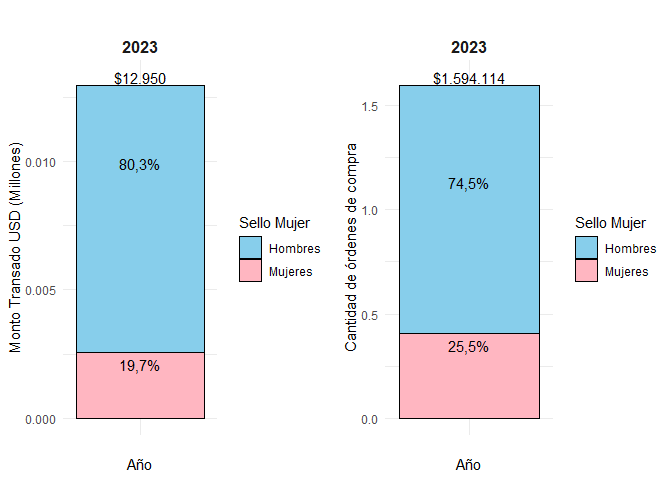
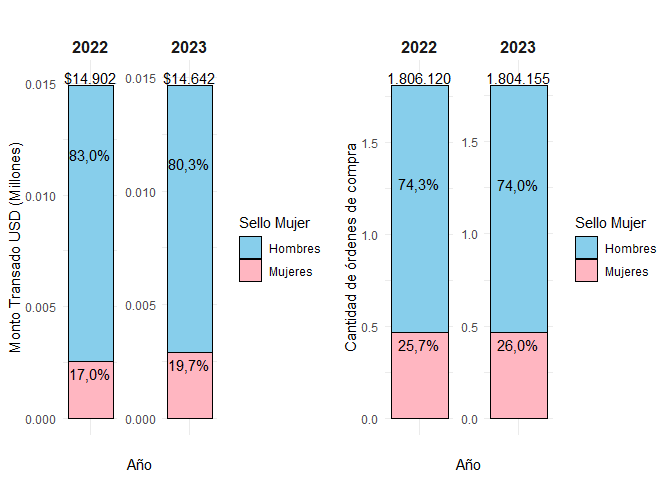
Update del cuaderno de investigación

diff --git a/README.md b/README.md
@@ -2,9 +2,7 @@ Cuaderno de investigación: Índice de Participación con Perspectiva de
 Género
 ================
 
-## Cuaderno de investigación:
-
-Un cuaderno de investigación, también conocido como cuaderno de
+Un **cuaderno de investigación**, también conocido como cuaderno de
 laboratorio o cuaderno de campo, es un documento utilizado por
 investigadores para registrar de manera sistemática y detallada todas
 las etapas y aspectos de un proyecto de investigación. Este cuaderno
@@ -13,6 +11,11 @@ resultados, análisis y cualquier otro dato relevante asociado con la
 investigación.
 
 ## ChileCompra
+
+<span style="color: red;"> Estos bullets se usaron para la presentación
+realizada con funcionarias del ministerio de hacienda, por tanto, se
+consideró necesario hacer un recordatorio del quehacer del servicio, sin
+embargo, para uso interno es prescindible </span>
 
 - La Dirección de Compras y Contratación Pública, Dirección ChileCompra
   es una entidad clave para más de 1.000 organismos públicos en Chile,
@@ -52,101 +55,25 @@ roles de género para promover una sociedad más equitativa.
 
 ## Contexto: Empresas lideradas por mujeres según Monto transado y órdenes de compra
 
-``` r
-# q_1 = readr::read_rds(file = "q1_monto_cantidad_oc_segun_sello_2018_2020.rds") %>% 
-#   mutate(`Sello Mujer` = ifelse(is.na(`Sello Mujer`), "Hombres", "Mujeres")) %>%
-#   rename(Anio = Año) %>%
-#   group_by(Anio, `Sello Mujer`) %>%
-#   mutate(
-#     total_monto = sum(`Monto anual USD`),
-#     total_cantidad = sum(`Cantidad OC`),
-#     perc_monto = `Monto anual USD` / total_monto,
-#     perc_cantidad = `Cantidad OC` / total_cantidad
-#   ) 
+![](README_files/figure-gfm/primer-1.png)<!-- --> Este gráfico muestra
+que aunque no hay variaciones importantes entre ambos períodos entre
+cantidad de órdenes de compra y montos transados, sí se puede apreciar
+una leve mejora en términos de participación en los montos pasando de un
+17% en 2022 para las mujeres a un 19,7%, sobre todo si se tiene en
+cuenta que a pesar de que el año 2023 no ha concluido, se aprecia un
+total transado muy similar al año anterior.
 
+## Monto y cantidad de órdenes de compra según procedimiento de compra
 
-# Define los colores para "Hombres" y "Mujeres"
-colores <- c("Hombres" = "#87CEEB",  # Celeste pastel para Hombres
-             "Mujeres" = "#FFB6C1")  # Rosado pastel para Mujeres
+![](README_files/figure-gfm/unnamed-chunk-2-1.png)<!-- -->
 
-
-
-file = "q1_monto_cantidad_oc_segun_sello_2018_2020.rds"
-
-q_1 = readr::read_rds(file)
-
-grafico_barras <- function(data, y, z, fill,  colores,...){
-  options(scipen = 999)
-  # Calcula el total por género
-  # 
-  data_ <-  data %>% 
-  group_by({{z}}) %>%
-  mutate(total_ = sum({{y}})) %>% 
-    ungroup() %>% 
-    mutate(perc_ = {{y}} /total_)
-    
-    
-  totales_por_genero <- data %>%
-    group_by({{z}}) %>%
-    summarise(total = sum({{y}}))
-  
-   p = ggplot(data_, aes(x = "", y = {{y}}, fill = {{fill}})) +
-    geom_bar(stat = "identity", width = 1, color = "black") +  # Elimina la línea que rodea las tortas
-    #coord_polar("y") +
-    scale_fill_manual(values = colores)+
-    ggtitle("") +
-    theme_minimal() +
-    facet_wrap(enquo(z),...) +  
-     labs(y = "Monto Transado USD (Millones)", x = "Año")+
-    theme(strip.text = element_text(size = 12, face = "bold"))+
-    geom_text(data = data_, aes(label = scales::percent(perc_, accuracy = .1,decimal.mark = ",")), vjust = 1.5) +
-     geom_text(data = totales_por_genero, aes(x="",label = scales::dollar(round(total), big.mark = ".", decimal.mark = ","), y = total), 
-               position = position_stack(vjust = 1.025), color = "black", size = 4, inherit.aes = FALSE)+
-     theme(legend.position = "right")+
-     scale_y_continuous(labels = scales::label_number(scale=1e-6))
-   
-  return(p)
-} 
-
-plot_1_1 = grafico_barras(q_1, y = `Monto anual USD`,
-                       z = Año, fill = `Sello Mujer`, colores = colores, scale = "free")  
-
-
-
-plot_1_2 = grafico_barras(q_1, y = `Cantidad OC`,
-                       z = Año, fill = `Sello Mujer`, colores = colores, scale = "free")+ labs(y = "Cantidad de órdenes de compra", x = "Año")  
-
-
-grid.arrange(plot_1_1, plot_1_2, ncol = 2)
-```
-
-![](README_files/figure-gfm/primer-1.png)<!-- -->
-
-<!-- ## Monto y cantidad de órdenes de compra según procedimiento de compra  -->
-<!-- ```{r, eval=TRUE} -->
-<!-- q_3 = readr::read_rds(file = "q3_monto_cantidad_oc_segun_tipo_OC.rds")  -->
-<!-- # Define los colores para "Hombres" y "Mujeres" -->
-<!-- colores <- c("Hombres" = "#87CEEB",  # Celeste pastel para Hombres -->
-<!--              "Mujeres" = "#FFB6C1")  # Rosado pastel para Mujeres -->
-<!-- plot_3_1 = grafico_barras(data = q_3, y = `Monto anual USD`, -->
-<!--                         z = `Procedimiento`, fill = `Sello Mujer`, -->
-<!--                         colores = colores, scales = "free")   -->
-<!-- plot_3_2 = grafico_barras(data = q_3, y = `Cantidad OC`, -->
-<!--                         z = `Procedimiento`, fill = `Sello Mujer`, -->
-<!--                         colores = colores, scales = "free")   -->
-<!-- grid.arrange(plot_3_1, plot_3_2, ncol = 2) -->
-<!-- # kable( -->
-<!-- #   q_3, -->
-<!-- #   col.names = c("Año", "Sello Mujer", "Tipo de Orden de Compra", "Monto ANUAL MM USD", "Cantidad Órdenes de compra"), -->
-<!-- #   digits = 2, -->
-<!-- #   caption = "Monto total (MM USD) y  Órdenes de Compra por sexo de quien lidera la empresa y tipo de Orden de Compra, 2022-2023" -->
-<!-- #   ) %>% kable_styling(font_size = 7, latex_options="scale_down") %>%  -->
-<!-- #   footnote( -->
-<!-- #     general = "Elaboración propia a partir de datos de ChileCompra", -->
-<!-- #     general_title = "Nota:", -->
-<!-- #     footnote_as_chunk = TRUE -->
-<!-- #     ) -->
-<!-- ``` -->
+<span style="color: red;"> Aunque es interesante realizar una apertura
+por procedimiento de compra, este gráfico no refleja adecuadamente la
+realidad pues no puede ser que el % de participación de las empresas
+lideradas por mujeres sea inferior en todos los procedimientos de compra
+en relación con el total. Por lo tanto debo verificar que la query está
+bien construida. Revisar archivo ‘indicadores_complementarios_20231213’
+</span>
 
 ## Instituciones según importancia de empresas lideradas por mujeres
 
@@ -176,7 +103,7 @@ q_2 = readr::read_rds(file = "q2_monto_cantidad_oc_segun_sello_institucion.rds")
 )
 ```
 
-![](README_files/figure-gfm/unnamed-chunk-2-1.png)<!-- -->
+![](README_files/figure-gfm/unnamed-chunk-3-1.png)<!-- -->
 
 ## Los principales compradores del primer cuadrante para las empresas con Sello Mujer
 
@@ -247,7 +174,7 @@ cuad_plot_2 <- ggplot(cuad_1_long[1:20,], aes(x = reorder(NombreInstitucion, can
 grid.arrange(cuad_plot_1, cuad_plot_2, ncol = 2)
 ```
 
-![](README_files/figure-gfm/unnamed-chunk-3-1.png)<!-- -->
+![](README_files/figure-gfm/unnamed-chunk-4-1.png)<!-- -->
 
 ## Cantidad y Tasa de Participación de proveedoras en el sistema
 
@@ -272,7 +199,7 @@ ggplot(q_4, aes(x = reorder(`Sello Mujer`, -Sello), y = `Sello`, fill = `Sello M
   theme(legend.position = "top")
 ```
 
-![](README_files/figure-gfm/unnamed-chunk-4-1.png)<!-- -->
+![](README_files/figure-gfm/unnamed-chunk-5-1.png)<!-- -->
 
 ``` r
 # kable(
@@ -359,7 +286,7 @@ ind_hist = readr::read_rds(file = "data_index_inst.rds")
     ## Call `lifecycle::last_lifecycle_warnings()` to see where this warning was
     ## generated.
 
-<img src="README_files/figure-gfm/unnamed-chunk-5-1.png" width="80%" />
+<img src="README_files/figure-gfm/unnamed-chunk-6-1.png" width="80%" />
 
 ## Resultados preliminares
 
@@ -381,7 +308,7 @@ ind_hist = readr::read_rds(file = "20231126_datos_índice_desagregado_por_instit
 )
 ```
 
-![](README_files/figure-gfm/unnamed-chunk-6-1.png)<!-- -->
+![](README_files/figure-gfm/unnamed-chunk-7-1.png)<!-- -->
 
 ## Agenda
 
